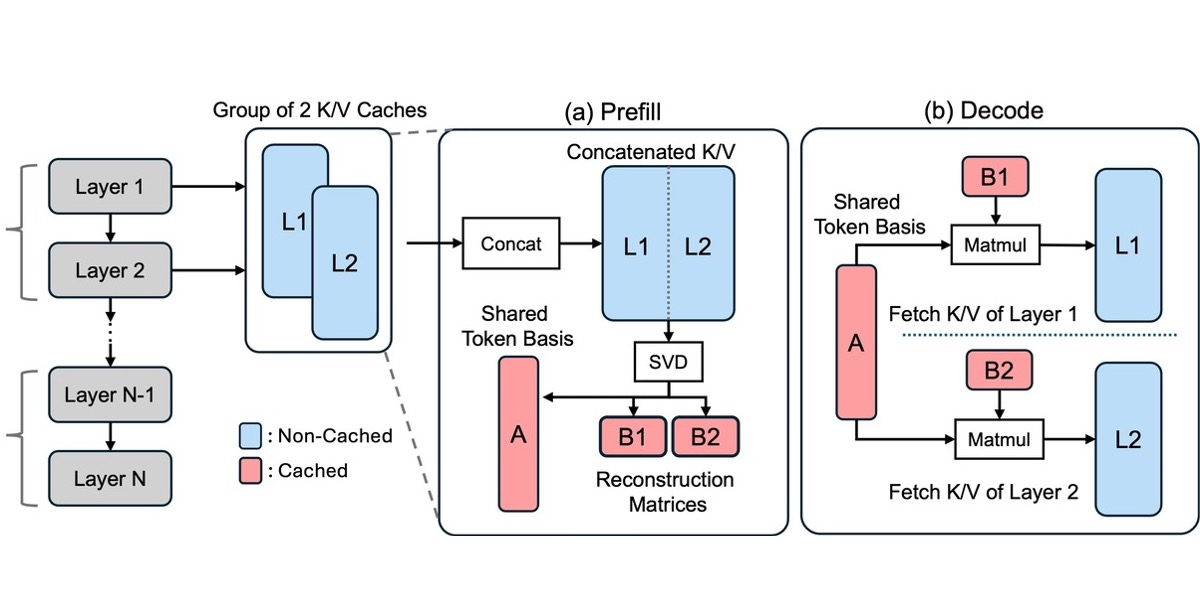
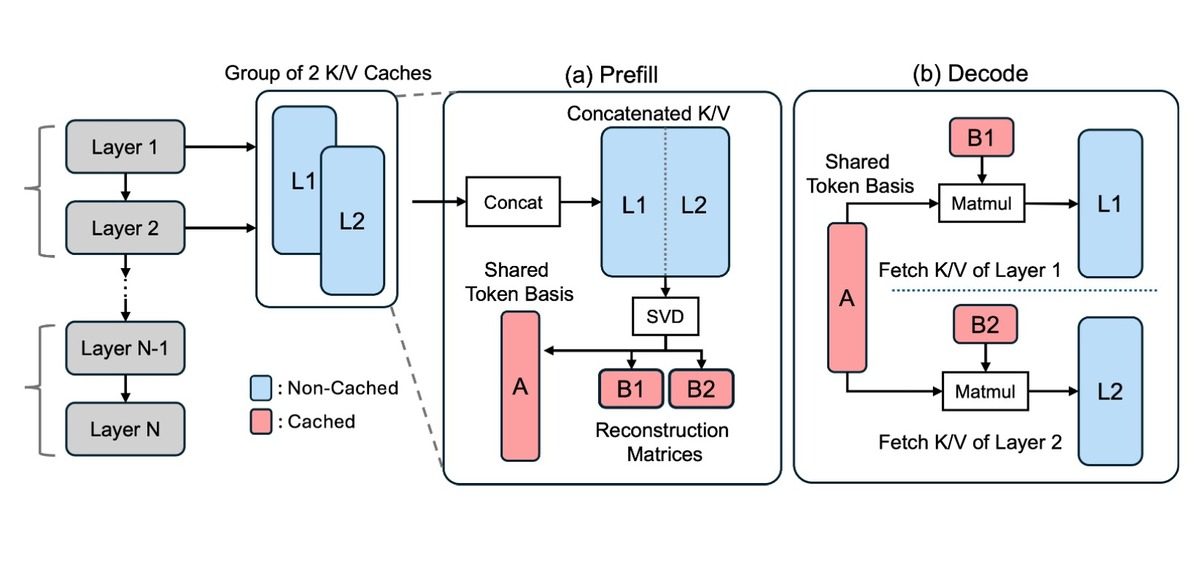
update web

Changed region(s): [[0.0, 0.1212, 1.0, 0.8788], [0.0, 0.5455, 0.1542, 0.8485]]

diff --git a/index.html b/index.html
@@ -9,15 +9,15 @@
   <meta property="og:description" content="xKV: Cross-Layer SVD for KV-Cache Compression"/>
   <meta property="og:url" content="https://abdelfattah-lab.github.io/xKV/"/>
   <!-- Path to banner image, should be in the path listed below. Optimal dimenssions are 1200X630-->
-  <meta property="og:image" content="static/images/proj_fig.png" />
+  <meta property="og:image" content="https://abdelfattah-lab.github.io/xKV/static/images/overview_small.jpg" />
   <meta property="og:image:width" content="1200"/>
-  <meta property="og:image:height" content="630"/>
+  <meta property="og:image:height" content="561"/>
 
 
   <meta name="twitter:title" content="xKV">
   <meta name="twitter:description" content="xKV: Cross-Layer SVD for KV-Cache Compression">
   <!-- Path to banner image, should be in the path listed below. Optimal dimenssions are 1200X600-->
-  <meta name="twitter:image" content="static/images/proj_fig.png">
+  <meta name="twitter:image" content="https://abdelfattah-lab.github.io/xKV/static/images/overview_small.jpg">
   <meta name="twitter:card" content="summary_large_image">
   <!-- Keywords for your paper to be indexed by-->
   <meta name="keywords" content="KV Cache">
